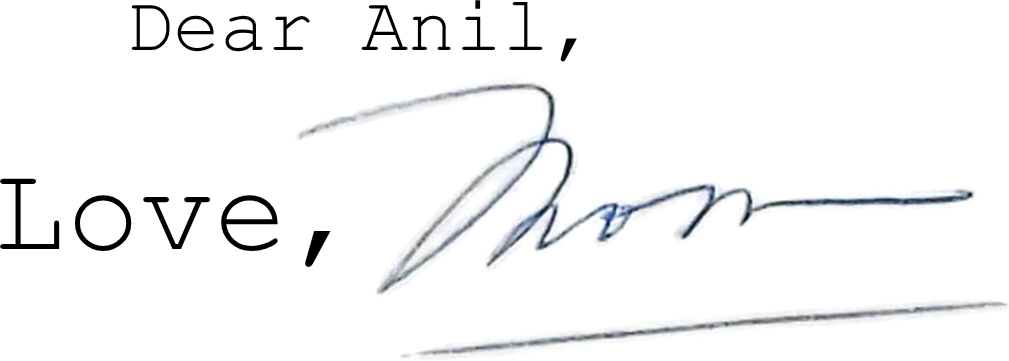
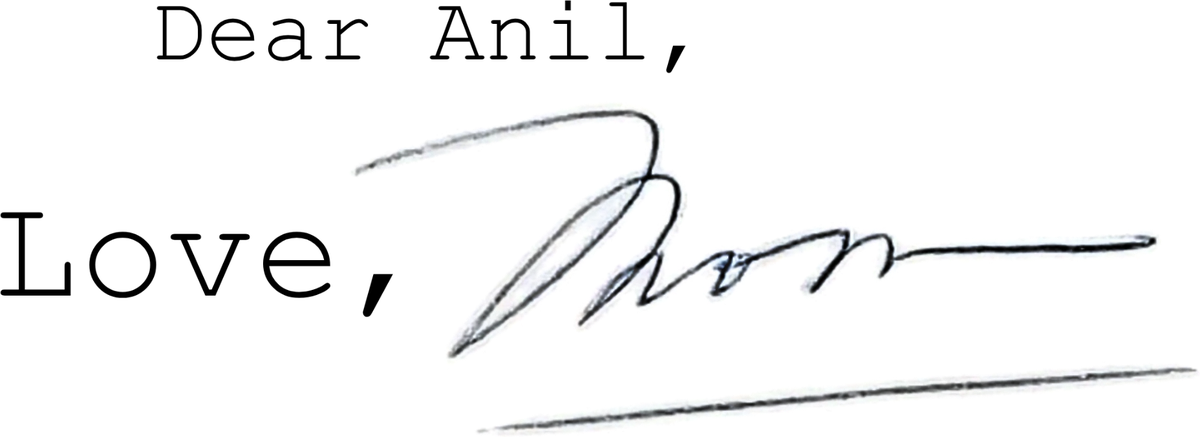
Updated 'Dear Anil, Love, Mom' lockup; gus and betty cut-out beside get the book
Claude-Session: https://claude.ai/code/session_016hvDMAgF7i1iKKe3waLZK1

diff --git a/index.html b/index.html
@@ -129,7 +129,14 @@
   .contents li .tag { font-size: 12px; color: var(--blue); letter-spacing: .06em; }
 
   /* ---------- get the book ---------- */
-  .options { display: grid; grid-template-columns: repeat(3, 1fr); gap: 0; border: 1px solid var(--ink); }
+  #get { overflow-x: clip; }
+  .options { position: relative; display: grid; grid-template-columns: repeat(3, 1fr); gap: 0; border: 1px solid var(--ink); }
+  .options .cutout {
+    position: absolute; z-index: 2; pointer-events: none;
+    width: 160px; height: auto; right: -118px; top: -230px;
+    transform: rotate(4deg);
+    filter: drop-shadow(0 1px 1px rgba(0,0,0,.12)) drop-shadow(0 8px 14px rgba(0,0,0,.12));
+  }
   .option { padding: 36px 30px 32px; display: flex; flex-direction: column; }
   .option + .option { border-left: 1px solid var(--ink); }
   .option h3 { font-weight: 400; font-size: 18px; margin: 0 0 6px; }
@@ -268,6 +275,7 @@
     .pair[data-paper="right"] .paper { margin-left: 6%; }
 
     .options { grid-template-columns: 1fr; }
+    .options .cutout { width: 110px; right: -8px; top: -200px; }
     .option + .option { border-left: 0; border-top: 1px solid var(--ink); }
     section { padding: 72px 0; }
     .hero { padding: 84px 0 56px; }
@@ -451,6 +459,7 @@ deep fat.</pre>
     <div class="wrap">
       <p class="label"><span>get the book</span></p>
       <div class="options">
+        <img class="cutout" src="images/gus-and-betty-cutout.png" alt="gus and betty, 1954, cut out of their photo" loading="lazy">
 
         <div class="option" id="list">
           <h3>mailing list</h3>
